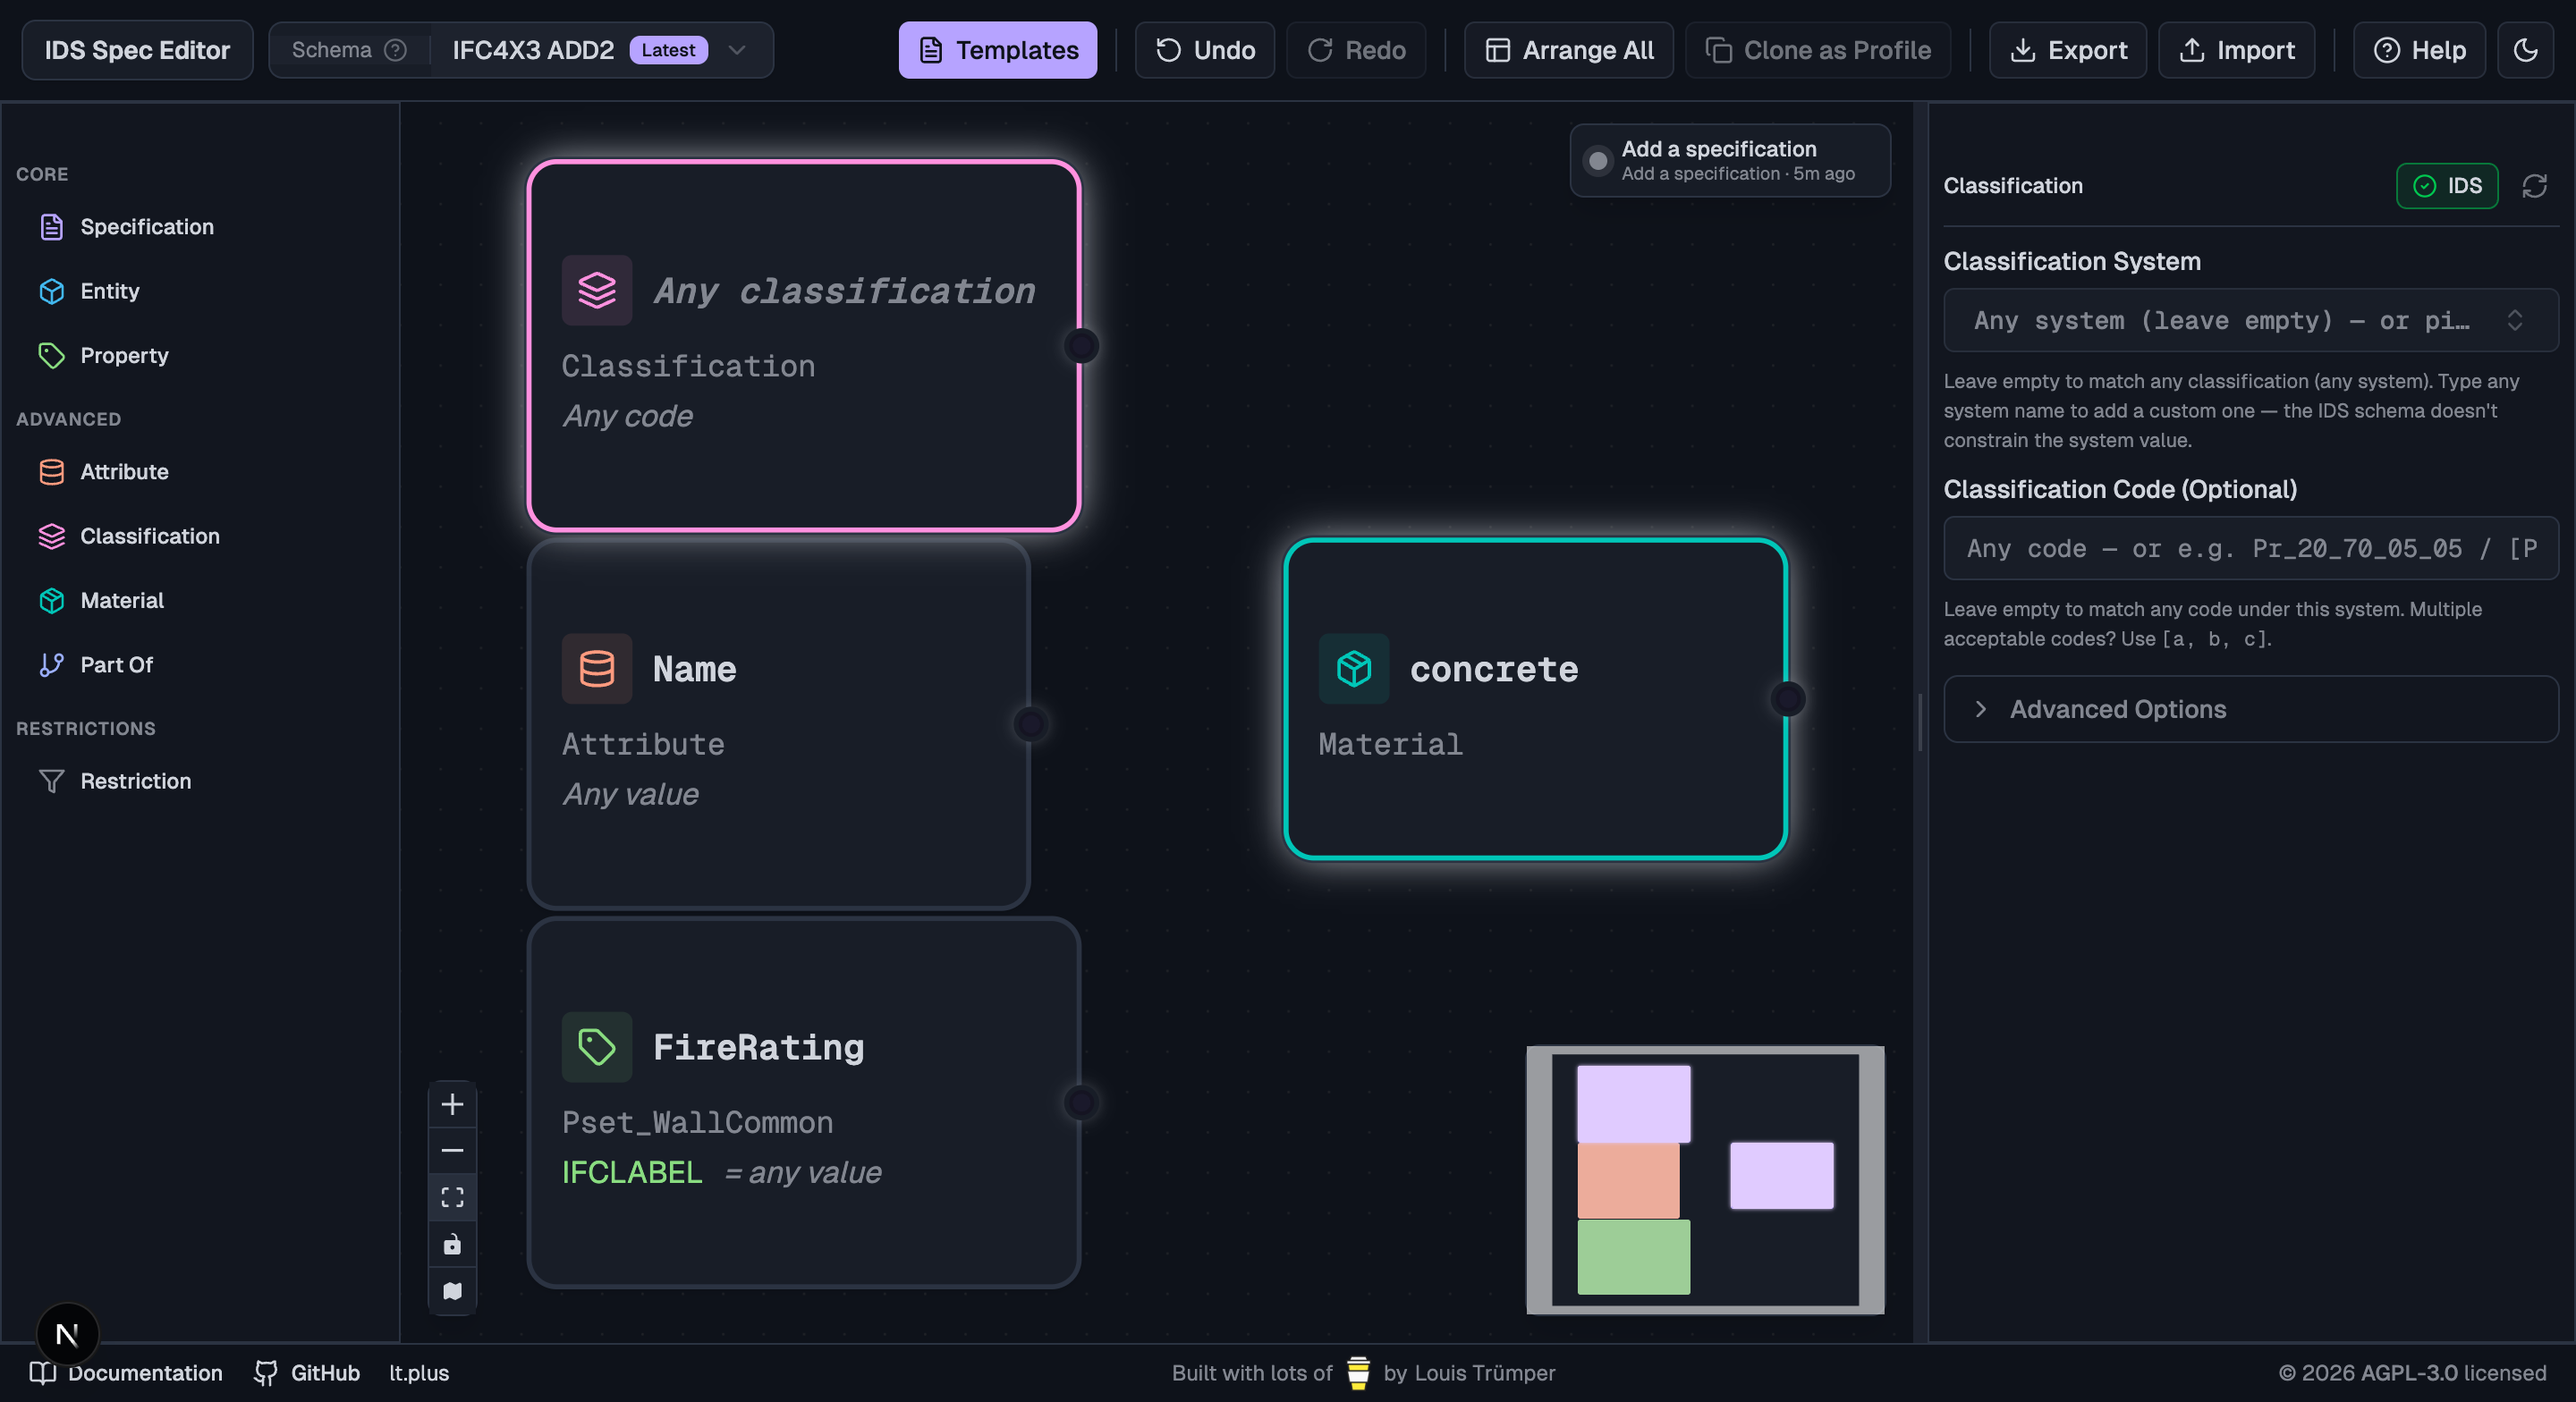
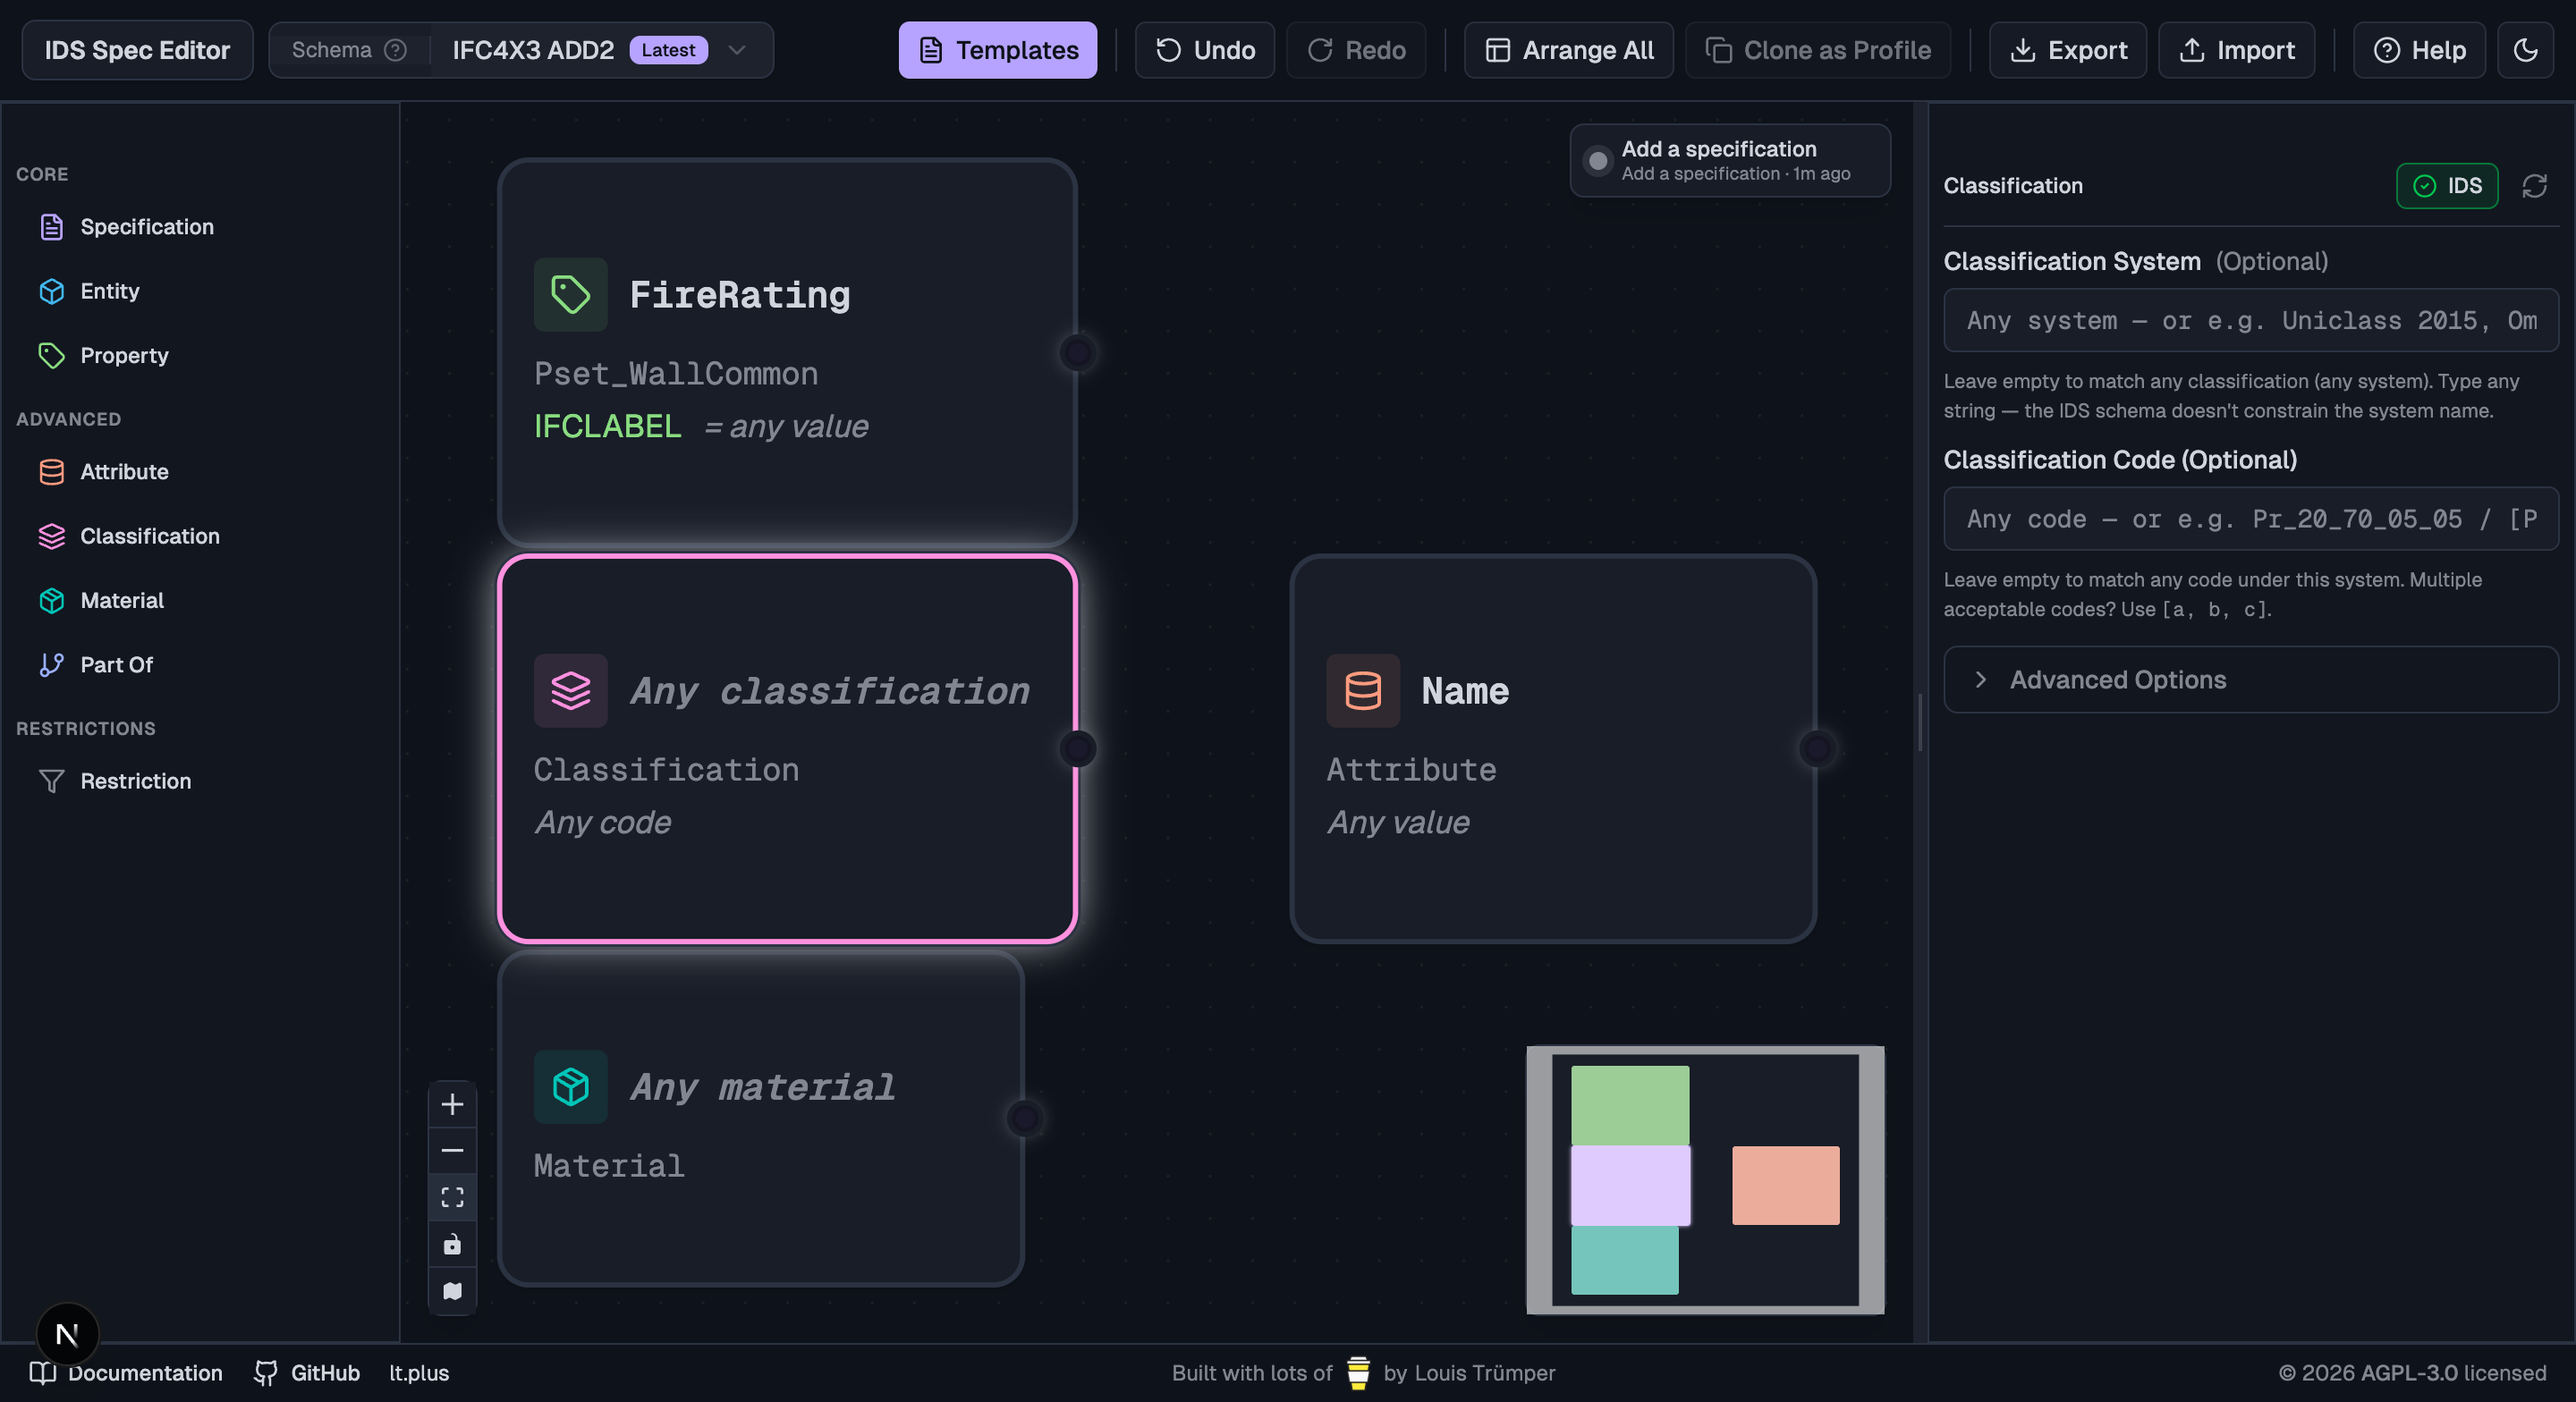
Docs: reflect plain-input UX for material + classification
Material value and classification system are no longer SearchableSelect
dropdowns with X-clear affordances — they're plain text inputs like
property value, attribute value, and classification code. The docs are
now consistent with that simpler reality:

- match-any-value.md: drop the "X clear button inside the trigger"
  prose, restructure around the single unifying rule ("leave the field
  empty"), and note that new material and classification nodes now
  default to empty (no pre-filled 'concrete' or 'Uniclass 2015').
- Recapture 13-material-inspector.png (was 13-…-clearable.png) showing
  the plain text input.
- Recapture 17c-classification-inspector-empty.png (both fields are
  now plain Inputs).
- Recapture 18-any-facets-overview.png — four facets, all four in
  wildcard state by default, no need to manually clear anything.

diff --git a/ids-docs/match-any-value.md b/ids-docs/match-any-value.md
@@ -1,47 +1,59 @@
-A lot of real IDS checks aren't "this property must equal *X*" — they're "this element must **have** this property at all, whatever the value." The IDS schema supports both: every value-bearing facet (`property`, `attribute`, `classification`, `material`) makes the `<value>` element **optional**, and the classification's `<system>` element accepts a pattern restriction. An omitted or wildcarded value is a match-anything check.
+A lot of real IDS checks aren't "this property must equal *X*" — they're "this element must **have** this property at all, whatever the value." The IDS schema supports both: every value-bearing facet (`property`, `attribute`, `classification`, `material`) makes the `<value>` element optional, and the classification's `<system>` element accepts a pattern restriction.
 
-In the editor, this is just **leave the value field empty**. The canvas and inspector make the wildcard state obvious — italic *"Any …"* labels and a clear `×` affordance in the input — so you can tell wildcard from in-progress at a glance.
+In the editor this is just one rule, applied uniformly across all four value-bearing facets: **leave the field empty.** A fresh node lands in the wildcard state by default — the canvas and inspector make the state obvious so you can tell wildcard from in-progress at a glance.
 
-## The pattern, four ways
+## Same UX everywhere
 
-Each value-bearing facet renders its empty-value state slightly differently — but always italicised and muted, with no concrete value present:
+All four value-bearing facets use a plain text input. No curated dropdown, no special "clear" affordance — clear it like any other field. The IDS schema doesn't constrain these values to a closed list anyway:
 
-![Four facets on one canvas — three in their "Any" state, one Material showing a concrete "concrete" value for contrast](/docs/screenshots/18-any-facets-overview.png)
+![Four facets on one canvas — all in the wildcard state by default. The classification inspector on the right is the same plain-input UX you get for every facet field.](/docs/screenshots/18-any-facets-overview.png)
 
-| Facet | When the value is empty | Maps to IDS XML |
+| Facet | When the field is empty | Maps to IDS XML |
 |---|---|---|
-| **Material** | Node title becomes italic *"Any material"* | `<material/>` (no `<value>`) |
-| **Classification** (value only) | *"Any code"* under the system name | `<classification><system>…</system></classification>` |
-| **Classification** (system + value) | Node title becomes italic *"Any classification"* | `<classification><system><xs:restriction base="xs:string"><xs:pattern value=".+"/></xs:restriction></system></classification>` |
-| **Attribute** | *"Any value"* under the attribute name | `<attribute><name>…</name></attribute>` |
-| **Property** | *"= any value"* after the data type | `<property><propertySet>…</propertySet><baseName>…</baseName></property>` |
+| **Material** value | Node title becomes italic *"Any material"* | `<material/>` (no `<value>`) |
+| **Classification** value (system set) | *"Any code"* under the system name | `<classification><system>…</system></classification>` |
+| **Classification** system *and* value | Node title becomes italic *"Any classification"*, hint *"Any code"* | `<classification><system><xs:restriction base="xs:string"><xs:pattern value=".+"/></xs:restriction></system></classification>` |
+| **Attribute** value | *"Any value"* under the attribute name | `<attribute><name>…</name></attribute>` |
+| **Property** value | *"= any value"* after the data type | `<property><propertySet>…</propertySet><baseName>…</baseName></property>` |
 
 If a Restriction node is connected to the facet, the editor shows *"restricted"* instead of *"Any …"* — the facet is still constrained, just via the restriction node rather than a fixed value.
 
-## How to leave a value empty
+## How to leave a field empty
 
-Property, attribute, and classification-code use plain text inputs — clear them with `Backspace`. **Material** and the **classification system** use a searchable dropdown, so they have an explicit `×` clear button inside the trigger (`Backspace` / `Delete` on the focused trigger does the same thing):
+Just don't type anything. New material and classification nodes default to empty (no pre-filled "concrete" or "Uniclass 2015"), so you can drop one in and it's already a wildcard. Type a specific value when you actually want to constrain.
 
-![Material inspector with the X clear button visible inside the value selector](/docs/screenshots/13-material-inspector-clearable.png)
+To revert a field back to wildcard, select all the text and `Backspace` — same as any text input on the web.
 
-After clearing, the node title switches to italic *"Any material"* and the inspector's placeholder reads *"Any material (leave empty) — or pick / type a name"*:
+![Material inspector — plain text input, helper line: "Leave empty to match any material. Multiple acceptable values? Use [a, b, c]."](/docs/screenshots/13-material-inspector.png)
 
-![Material node titled "Any material" in italics after clearing](/docs/screenshots/14-material-node-any.png)
+![Classification inspector — both fields plain text, helper for system reads "Leave empty to match any classification (any system). Type any string — the IDS schema doesn't constrain the system name."](/docs/screenshots/17c-classification-inspector-empty.png)
 
-Classification works the same way: clear the system to mean "any classification (any system)". When emitted, the editor writes an XSD pattern restriction (`.+`) on `<system>` to make "any non-empty string" explicit — the IDS schema requires `<system>` to be present, so an empty simpleValue would semantically mean "match the empty string" rather than "any system".
-
-![Classification inspector — Classification System cleared, helper line: "Leave empty to match any classification (any system)"](/docs/screenshots/17c-classification-inspector-empty.png)
-
-Property and attribute use a plain text input — the helper line tells you the leave-empty trick:
+Property and attribute are the same shape — same input, same helper text:
 
 ![Property inspector — empty Value field with the "Leave empty to match any value" helper line](/docs/screenshots/15-property-inspector-empty.png)
 
+## What the IDS XML looks like
+
+For the value-bearing fields (material value, classification value, attribute value, property value), empty just means the `<value>` element is omitted entirely. The facet element itself remains.
+
+Classification system is the one exception: per the XSD it's `minOccurs="1"`, so the editor still has to emit a `<system>` element. When empty, it writes a pattern restriction that matches any non-empty string — unambiguously "any system":
+
+```xml
+<system>
+  <xs:restriction base="xs:string">
+    <xs:pattern value=".+"/>
+  </xs:restriction>
+</system>
+```
+
+An empty `<simpleValue/>` would semantically mean "match the empty string", which most validators would treat as a no-match — the pattern approach side-steps that.
+
 ## When to use it
 
-- **Applicability**: "applies to anything that has a material assigned" (regardless of which one). Useful when you care about *whether* the model carries a piece of information, not the specific value.
+- **Applicability**: "applies to anything that has a material assigned" (or any classification, or any value for some attribute). You care that the model carries a piece of information, not the specific value.
 - **Requirements**: combined with cardinality, you can express "this property must be present" (`cardinality="required"`) or "must not be present" (`cardinality="prohibited"`) without committing to a value.
-- **Classification with no system**: "every element in this applicability must have *some* classification — system doesn't matter, value doesn't matter." Useful for early-stage IDS that just checks the team did the classification work at all.
+- **Classification with empty system and value**: "every applicable element must have *some* classification — system doesn't matter, value doesn't matter." Useful for early-stage IDS that just checks the team did the classification work at all.
 
 ## When NOT to use it
 
-If you actually want to constrain the value to a finite set (`["R60", "R90", "R120"]`), don't leave the field empty — use the [bracketed-list shortcut](/docs/quick-start) to convert your typed values into a Restriction node. A wildcard facet means *any value passes*, including values you'd rather not.
+If you actually want to constrain the value to a finite set (`["R60", "R90", "R120"]`), don't leave the field empty — type the bracketed list and use the **Make Restriction** shortcut to convert it into a Restriction node. A wildcard facet means *any value passes*, including values you'd rather not.
